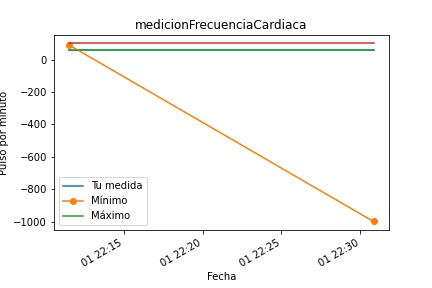
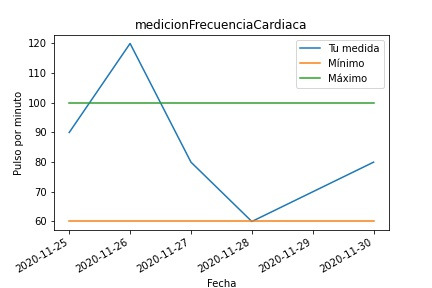
Final

diff --git a/php/insertaUsuario.html b/php/insertaUsuario.html
@@ -4,6 +4,84 @@
     <meta charset="utf-8">
     <title>Inserta Usuario</title>
     <link rel="stylesheet" href="estilos.css">
+    <style type="text/css">
+    	body {
+    font-family: Arial, Helvetica, sans-serif;
+    margin: 0;
+   background: url(imagen.jpg);
+    background-size: cover;
+    background-attachment: fixed;
+}
+* {
+    box-sizing: border-box;
+}
+.contenedor{
+    width: 100%;
+    padding: 15px;
+}
+.formulario{
+    background: #fff;
+    margin-top: 150px;
+    padding: 3px;
+}
+h1{
+    text-align: center;
+    color: #1a2537;
+    font-size: 40px;
+}
+input[type="text"],
+input[type="number"],
+input[type="date"],
+{
+    font-size: 20px;
+    width: 82%;
+    padding: 10px;
+    border: none;
+}
+.input-contenedor{
+    margin-bottom: 15px;
+    border: 1px solid #aaa;
+}
+.icon{
+    min-width: 50px;
+    text-align: center;
+    color: #999;
+}
+.button{
+    border: none;
+    width: 100%;
+    color: white;
+    font-size: 20px;
+    background:  #1a2537;
+    padding: 15px 20px;
+    border-radius: 5px;
+    cursor: pointer;
+}
+.button:hover{
+    background: cadetblue;
+}
+p{
+    text-align: center;
+}
+.link{
+    text-decoration: none;
+      color: #1a2537;
+    font-weight: 600;
+}
+.link:hover{
+     color: cadetblue;
+}
+@media(min-width:768px)
+{
+    .formulario{
+        margin: auto;
+        width: 500px;
+        margin-top: 150px;
+        border-radius: 2%;
+    }
+}
+
+    </style>
   </head>
   <body>
 

diff --git a/php/python/Subscriber (1).py b/php/python/Subscriber (1).py
@@ -1,0 +1,45 @@
+# importación de librerías
+import time
+import paho.mqtt.client as mqttClient
+
+#definición de funciones
+
+def on_connect(client,userdata,flags,rc):
+    if rc == 0:
+        print("Conectado al broker")
+        global Connected
+        Connected = True
+    else:
+        print("Fallo en la conexión")
+
+def on_message(client,userdata,message):
+    #print(+": ".format(message.payload))
+    print("Mensaje recibido: {}".format(message.payload))
+
+Connected = False             #variable globar para verificar estado de la conexión
+broker = "broker.hivemq.com"  #ip o URL del broker
+port = 1883                   # puerto por default
+#tag = "/medicion/1"   #Etiqueta
+tag = "/medicion/temperatura"   #Etiqueta
+tag1 = "/medicion/oximetria"   #Etiqueta
+tag2 = "/medicion/frecuencia"   #Etiqueta
+#user = ""
+#password = ""
+clientS = mqttClient.Client("Cliente") #crea una instancia
+clientS.on_connect = on_connect        #agrega la función al objeto
+clientS.on_message = on_message
+clientS.connect(broker,port)
+clientS.loop_start()
+
+while Connected != True:
+    time.sleep(1)
+    clientS.subscribe(tag)
+    clientS.subscribe(tag1)
+    clientS.subscribe(tag2)
+    try:
+        while True:
+            time.sleep(1)
+    except KeyboardInterrupt:
+        print("Recepción de mensajes detenida por el usuario")
+        clientS.disconnect()
+        clientS.loop_stop()

diff --git a/php/python/Sql.py b/php/python/Sql.py
@@ -11,9 +11,11 @@ def medicionGeneral(mydb,tabla,medicion,ide):
     x = []
     y = []
     for i in myresult:
-      t = (datetime.datetime.min + i[2]).time()
-      x.append(datetime.datetime.combine(i[1], 
-                              t))
+      #t = (datetime.datetime.min + i[2]).time()
+      #print(type(t))
+      #x.append(datetime.datetime.combine(i[1], 
+       #                       t))
+      x.append(i[1])
       y.append(i[3])
     
     x = np.array(x)
@@ -27,17 +29,16 @@ def medicionGeneral(mydb,tabla,medicion,ide):
     
     fig, ax = plt.subplots()
     fig.autofmt_xdate()
-    ax.plot(x, y1)
-    plt.plot(x, y, 'o-', label = "tu medida")
+    plt.plot(x, y)
     plt.plot(x,y1)
     plt.plot(x,y2)
+    plt.legend(["Tu medida","Mínimo","Máximo"])
     #plt.scatter(x,y)
     
     """plt.legend("Mínimo")
     plt.legend("Máximo")"""
     plt.xlabel("Fecha")
-    plt.title(tabla)
-    plt.legend(["Tu medida","Mínimo","Máximo"])
+    plt.title(tabla)    
     
     if(medicion == "temperatura"):
         plt.ylabel("°C")
